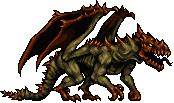
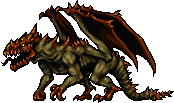
Imagem do DRAGAO FODA invertida, imagem do bau alterada

diff --git a/Game/guiqt.cpp b/Game/guiqt.cpp
@@ -7,7 +7,7 @@ const int GUIQT::range_j = 7;
 const int GUIQT::pix_per_tile = 32;
 const int GUIQT::n_battle_options = 2;
 const int GUIQT::battle_delay = 5;
-const int GUIQT::text_position[2] = {3 * 32, 11 * 32};
+const int GUIQT::text_position[2] = {2 * 32, 6 * 32};
 
 void GUIQT::setMoveMapDirection(Direction dir, int &column, int &row, int &cont_frames, int &limit)
 {
@@ -169,10 +169,10 @@ void GUIQT::drawBattle()
 {
     painter->drawPixmap(0, 0, size_y * pix_per_tile, size_x * pix_per_tile, bg_battle);
     painter->drawPixmap(width_options[selected_option], 10*32 + 2,16,16,cursor_battle);
-    painter->drawPixmap(10*32, 5*32, 160, 96,QPixmap(QString::fromStdString(Battle::getImgWayMonster())));
+    painter->drawPixmap(5*32, 2*32, 320, 192,QPixmap(QString::fromStdString(Battle::getImgWayMonster())));
     QPixmap player_image(QString::fromStdString(draw_player->getImgWay()));
     player_image = player_image.copy(3 * 16, 2* 16, 16, 16);
-    painter->drawPixmap(3*32, 7*32, 32, 32, player_image);
+    painter->drawPixmap(2*32, 7*32, 32, 32, player_image);
     painter->setFont(QFont("Times", 16, QFont::Bold));
     painter->setPen(QPen(battle_text_color));
     painter->drawText(text_position[int(text_right)], 5 * 32 - battle_delay_cont * 5, 200, 30, Qt::AlignVCenter, battle_text);
@@ -272,10 +272,10 @@ void GUIQT::setBattleText(QString new_battle_text, QColor color, bool new_text_r
 
 void GUIQT::rightButton()
 {
-  inventory->isMessage();
+    inventory->isMessage();
 }
 
 void GUIQT::leftButton()
 {
-  inventory->notMessage();
+    inventory->notMessage();
 }

diff --git a/Game/game.cpp b/Game/game.cpp
@@ -36,8 +36,6 @@ Game::Game(QWidget *parent) :
     temp_playlist->setPlaybackMode(QMediaPlaylist::Loop);
     world_music->setPlaylist(temp_playlist);
     temp_playlist = new QMediaPlaylist;
-    //world_music->setMedia(QUrl::fromLocalFile(QFileInfo("Music/Stairway to Heaven - Symphonic Led Zeppelin.mp3").absoluteFilePath()));
-//    battle_music->setMedia(QUrl::fromLocalFile(QFileInfo("Battle/The Last Encounter (90s RPG Version) Full Loop.wav").absoluteFilePath()));
     temp_playlist->addMedia(QUrl::fromLocalFile(QFileInfo("Battle/The Last Encounter (90s RPG Version) Full Loop.wav").absoluteFilePath()));
     temp_playlist->setPlaybackMode(QMediaPlaylist::Loop);
     battle_music->setPlaylist(temp_playlist);
@@ -46,6 +44,8 @@ Game::Game(QWidget *parent) :
 
 Game::~Game()
 {
+    if (world_music->playlist()) delete world_music->playlist();
+    if (battle_music->playlist()) delete battle_music->playlist();
     if (world_music) delete world_music;
     if (instant_sfx) delete instant_sfx;
     if (battle_music) delete battle_music;
@@ -131,6 +131,11 @@ void Game::mousePressEvent(QMouseEvent *event)
     } else {
         my_GUI->leftButton();
     }
+}
+
+void Game::mainMenu()
+{
+
 }
 
 void Game::myUpdate()
@@ -232,4 +237,12 @@ void Game::myBattle()
     }
     atual_direction = SLEEP;
     repaint();
+}
+
+void Game::transiction()
+{
+    if (is_battle) {
+        disconnect(clock, SIGNAL(timeout()), this, SLOT(transiction()));
+        connect(clock, SIGNAL(timeout()), this, SLOT(myBattle()));
+    }
 }

diff --git a/Game/chest.cpp b/Game/chest.cpp
@@ -1,6 +1,6 @@
 #include "chest.h"
 const int Chest::max_item = 5;
-std::string Chest::chest_img_way = "Images/chest.png";
+std::string Chest::chest_img_way = "Images/new_chest.png";
 
 void Chest::randItem(int rand)
 {

diff --git a/Game/game.h b/Game/game.h
@@ -35,8 +35,10 @@ public:
     void mousePressEvent(QMouseEvent * event);
 
 public slots:
+    void mainMenu();
     void myUpdate();
     void myBattle();
+    void transiction();
 
 private:
     Ui::Game *ui;
